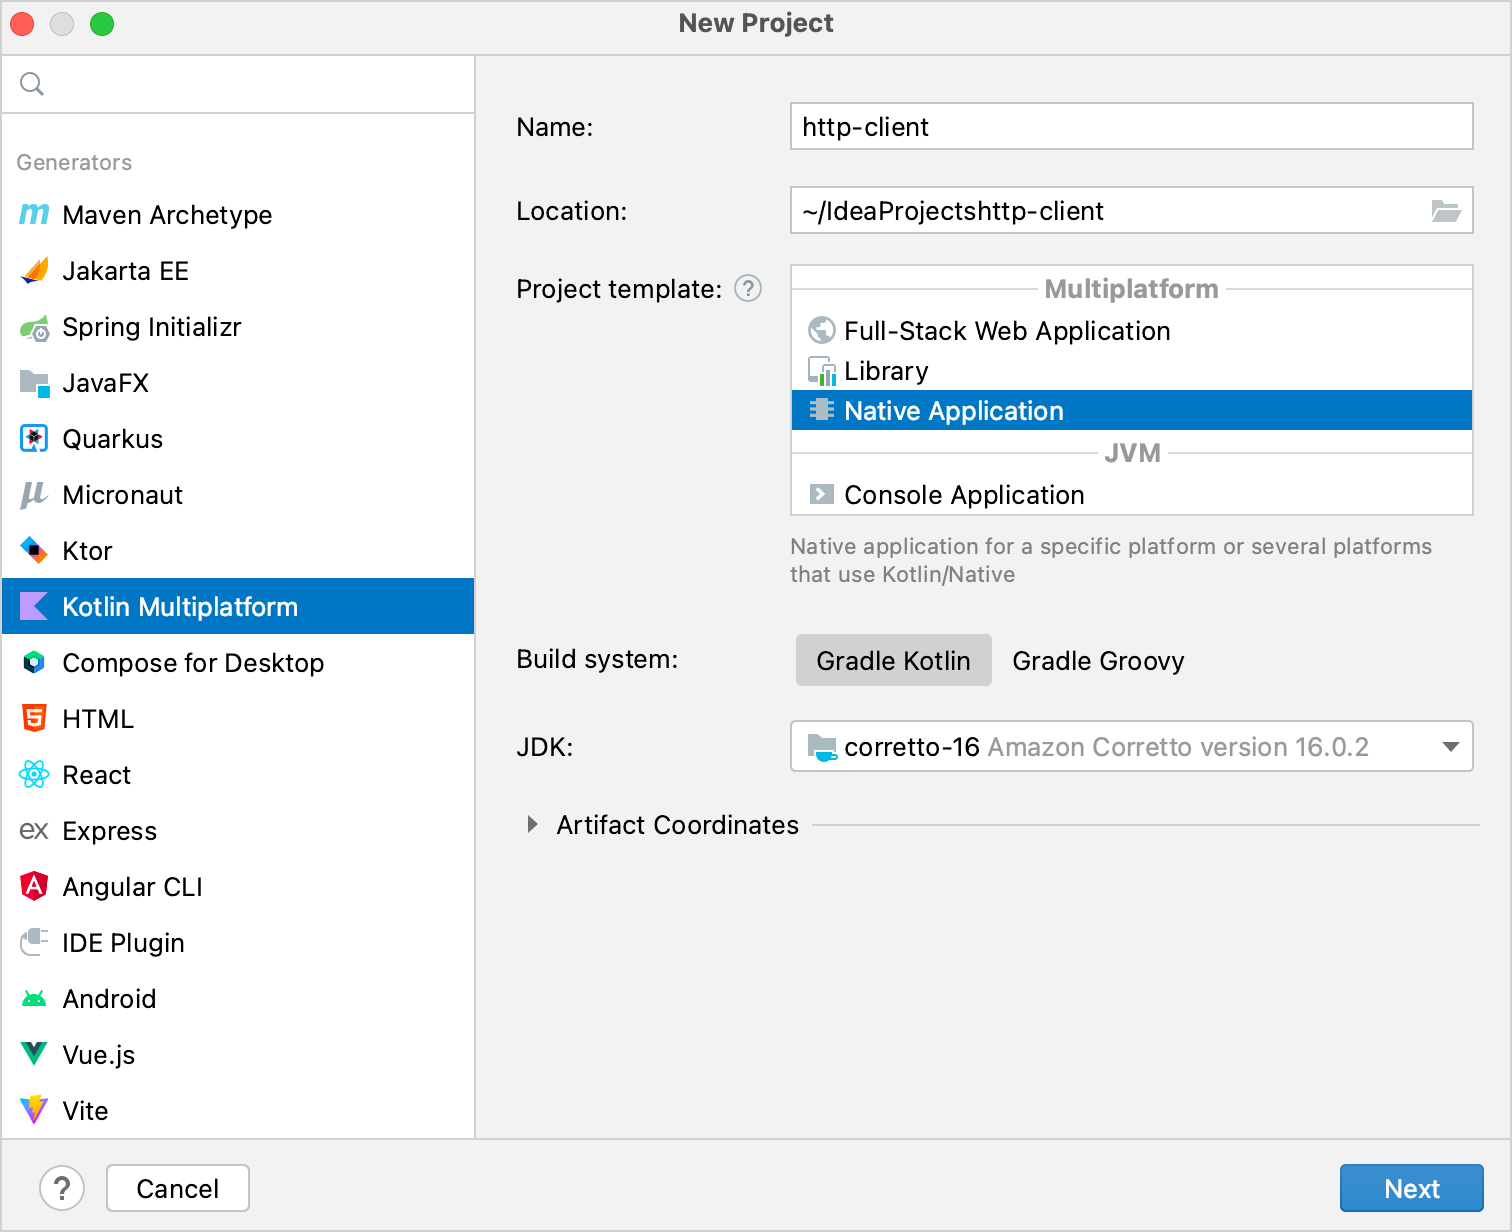
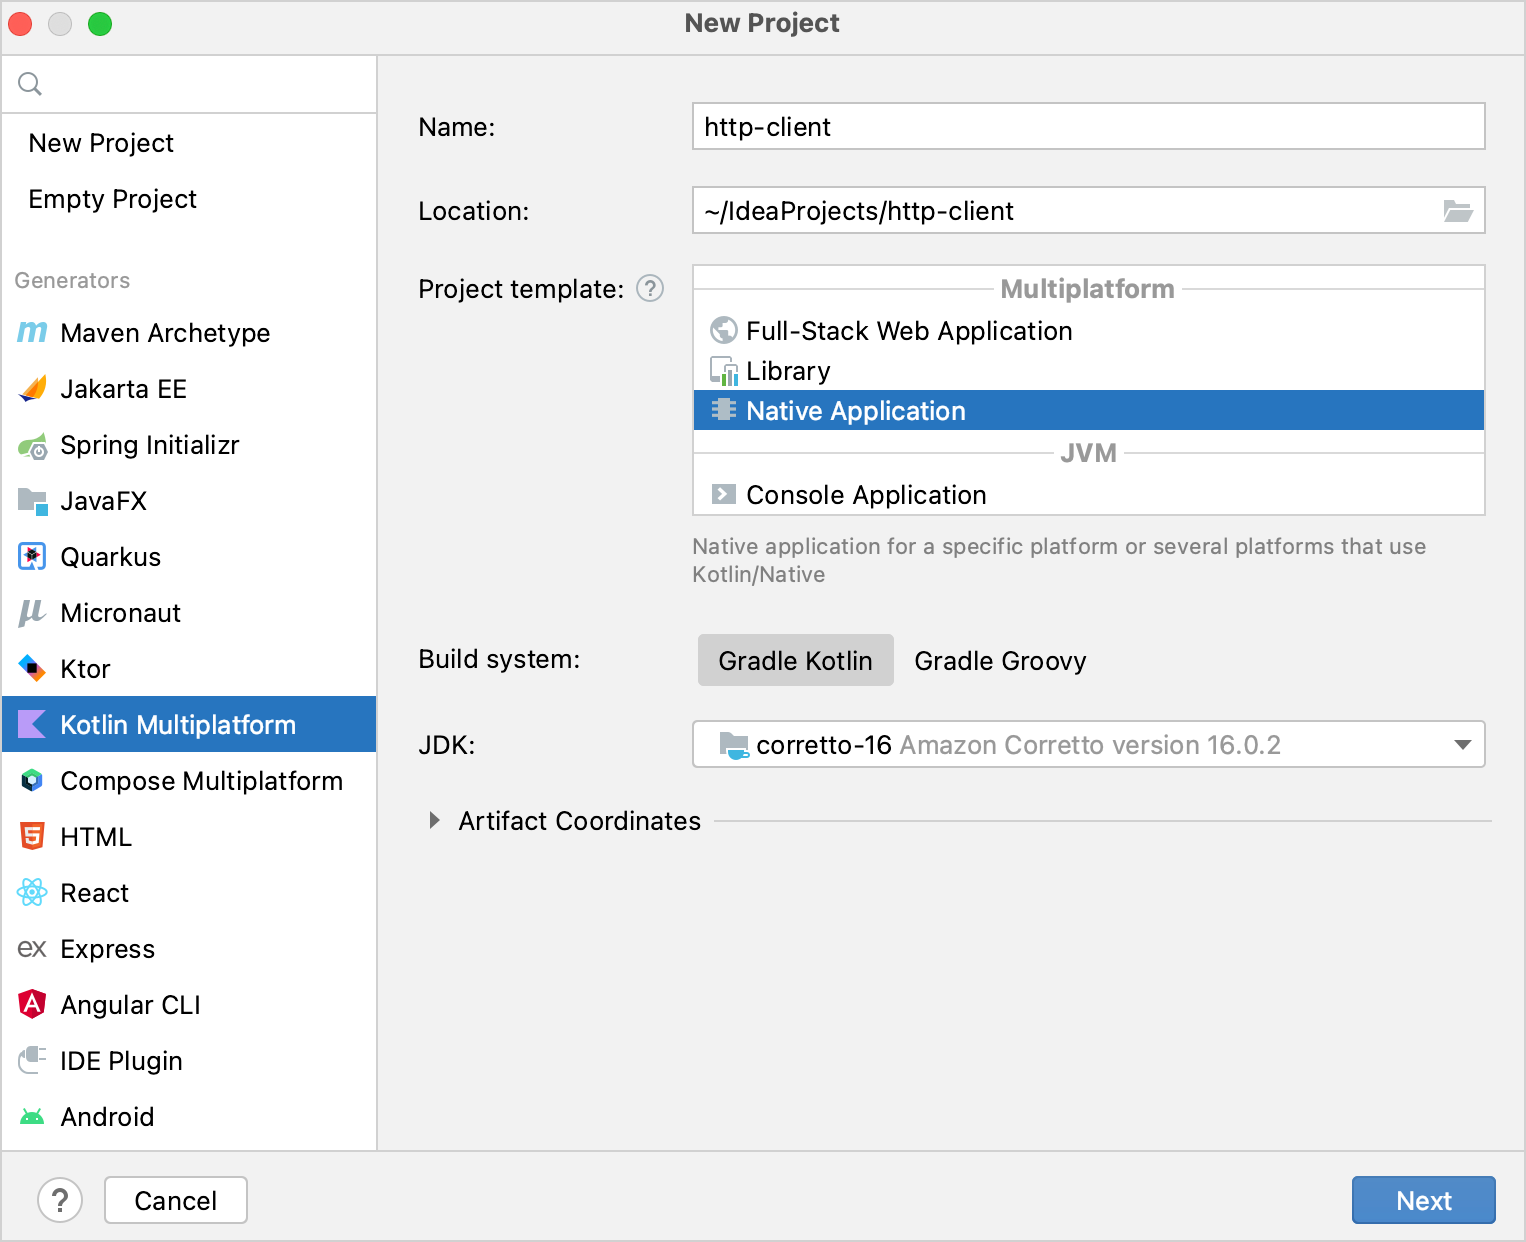
update: minor dependency and screenshot update (#3738)
* fix: inconsistency with a sample project

* fix: minor screenshot update

diff --git a/docs/topics/multiplatform-mobile/multiplatform-mobile-ktor-sqldelight.md b/docs/topics/multiplatform-mobile/multiplatform-mobile-ktor-sqldelight.md
@@ -78,6 +78,8 @@ Both the `kotlinx.serialization` and SQLDelight libraries also require additiona
     val dateTimeVersion = "%dateTimeVersion%"
 
     sourceSets {
+        targetHierarchy.default()
+   
         val commonMain by getting {
             dependencies {
                 implementation("org.jetbrains.kotlinx:kotlinx-coroutines-core:$coroutinesVersion")
@@ -486,7 +488,7 @@ In the `androidApp/src/main/AndroidManifest.xml` file, add the following permiss
 
 ```xml
 <?xml version="1.0" encoding="utf-8"?>
-<manifest xmlns:android="http://schemas.android.com/apk/res/android" package="com.jetbrains.handson.androidApp">
+<manifest xmlns:android="http://schemas.android.com/apk/res/android">
     <uses-permission android:name="android.permission.INTERNET" />
     
 </manifest>
@@ -572,7 +574,8 @@ dependencies {
     implementation("org.jetbrains.kotlinx:kotlinx-coroutines-android:1.7.1")
     implementation("androidx.core:core-ktx:1.10.1")
     implementation("androidx.recyclerview:recyclerview:1.3.0")
-    implementation("androidx.cardview:cardview:1.0.0")
+   implementation("androidx.swiperefreshlayout:swiperefreshlayout:1.1.0")
+   implementation("androidx.cardview:cardview:1.0.0")
 }
 // ...
 ```
